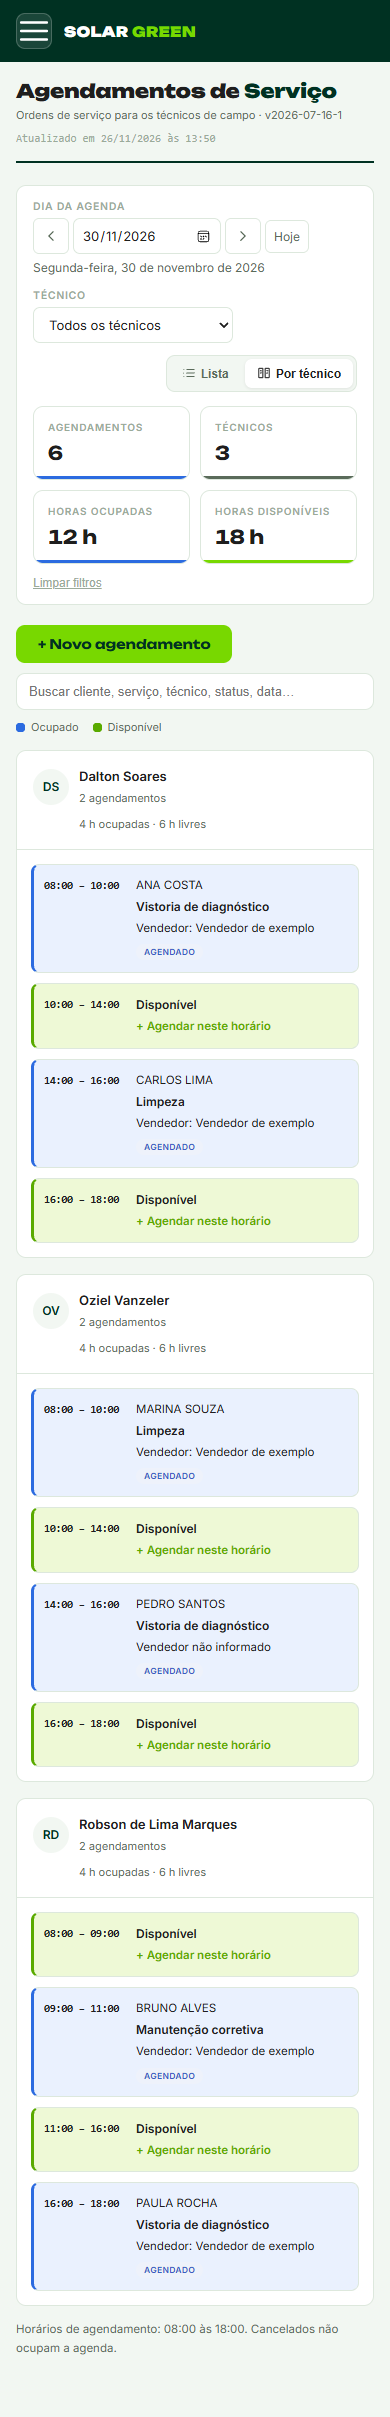
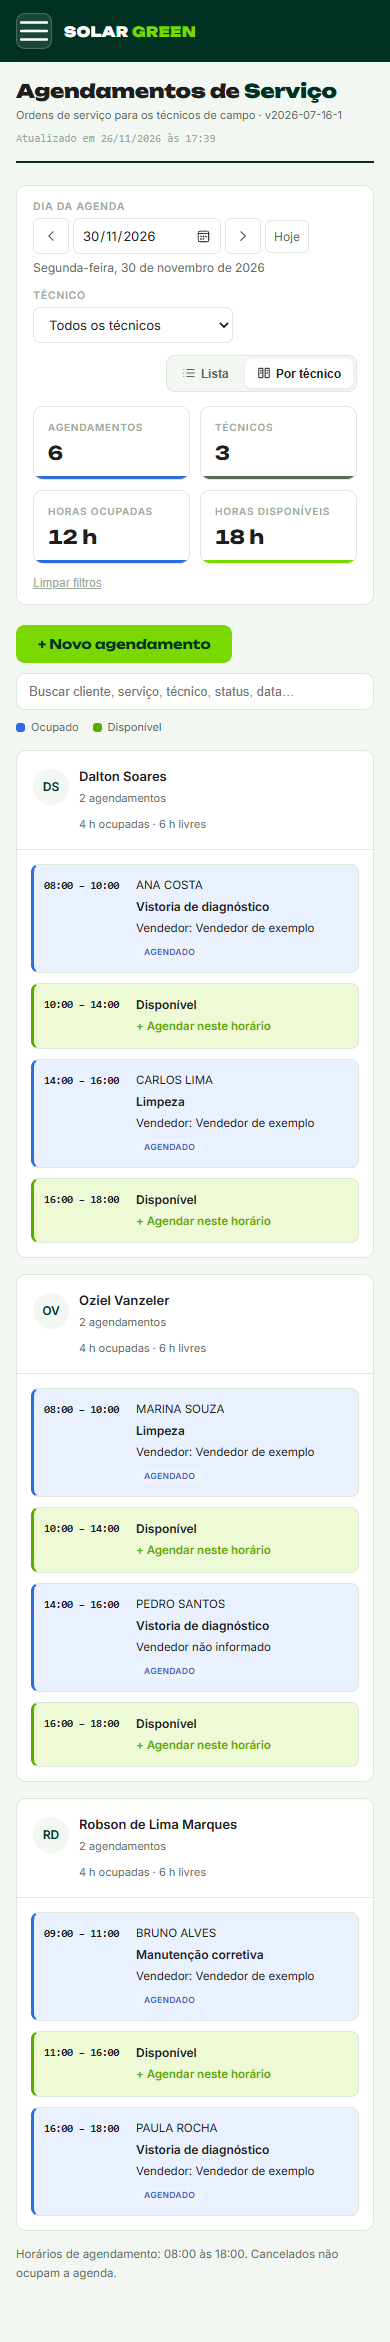
fix(agenda): ocultar faixas livres de até uma hora nos cards

Changed region(s): [[0.0308, 0.0, 0.9231, 0.9974], [0.0615, 0.5611, 0.0923, 0.5922], [0.0615, 0.3429, 0.0923, 0.374]]

diff --git a/js/agendamentos.js b/js/agendamentos.js
@@ -1054,6 +1054,7 @@
           '<span class="ag-status-tag '+escapeHtml(statusSlug(a['Status Agendamento']||'Agendado'))+'">'+escapeHtml(a['Status Agendamento']||'Agendado')+'</span></button>'});
       });
       if(g.agenda.calculado)g.agenda.livres.forEach(function(i){
+        if(i.fim-i.ini<=60)return; // Oculta apenas no card; o horário continua livre.
         // O formulário atual oferece horas cheias; não preenche valores sem botão correspondente.
         var agIni=HORAS_INICIO.filter(function(h){return DIA.minutos(h)>=i.ini&&DIA.minutos(h)<i.fim;})[0];
         var agFim=HORAS_FIM.filter(function(h){return DIA.minutos(h)<=i.fim&&DIA.minutos(h)>(agIni?DIA.minutos(agIni):i.fim);}).pop();

diff --git a/index.html b/index.html
@@ -2201,7 +2201,7 @@
 <script src="js/supervisor-mensagens.js?v=20261105c"></script>
 <script src="js/funil.js?v=20261116a"></script>
 <script src="js/agendamentos-dia.js?v=20261126a"></script>
-<script src="js/agendamentos.js?v=20261126d"></script>
+<script src="js/agendamentos.js?v=20261126e"></script>
 <script src="js/clientes.js?v=20261116a"></script>
 <script src="js/relatorios.js?v=20260829f"></script>
 <script src="js/custos-venda.js?v=20261027a"></script>

diff --git a/maquetes/agendamentos-por-tecnico-2026-11-26/LEIA.md b/maquetes/agendamentos-por-tecnico-2026-11-26/LEIA.md
@@ -12,6 +12,8 @@ Por técnico é a visualização inicial dos Agendamentos, no dia atual. Lista c
 
 Conteúdo de cada compromisso, após ajuste de 26/11: cliente em caixa alta na primeira linha, serviço em negrito na segunda e vendedor responsável do cliente na terceira, mantendo o status existente. Quando o cache só tem nome/telefone, consulta o documento dos clientes exibidos após a autenticação e reaproveita o cache por ID. Ausência de vendedor ou falha na consulta são informadas sem inventar atribuição; a coleção inteira de clientes não é carregada para isso.
 
+Faixas livres de até uma hora ficam ocultas nos cards. Continuam livres no cálculo de disponibilidade e podem ser escolhidas no formulário de Novo agendamento; o ajuste não cria bloqueios de horário.
+
 Conferência: 11 testes de cálculo/período; 15 cenários no navegador com Edge/Chromium, sem gravação em produção nem erros de JavaScript, incluindo teclado nas novas ações, viradas de data, cancelamento, sobreposição, serviços de vários dias, dados incompletos, filtro/busca, atualização ao vivo, texto longo e celular sem rolagem horizontal. `validacao-ui.json` registra o resultado. O teste pode ser repetido com `tests/agendamentos-ui.cjs` e playwright-core instalado no ambiente, ou indicado pela variável `PLAYWRIGHT_MODULE`.
 
 PWA: verificador existente executado com Chrome e seletor adaptado, em uma cópia temporária, ao banner real `#sg-install-banner.show`. Passou service worker, manifest, instalabilidade Chromium, instruções iPhone e estado já instalado. A emulação não substitui teste de instalação em um iPhone físico.
